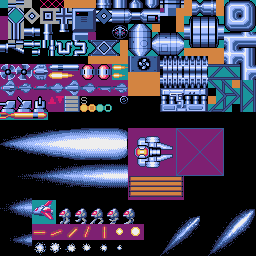
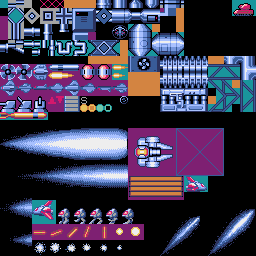
巨大戦艦途中

Changed region(s): [[0.7188, 0.0, 1.0, 0.2188], [0.2188, 0.8125, 0.5312, 0.875], [0.7188, 0.6875, 0.8125, 0.75]]

diff --git a/source/bossBattleShip.py b/source/bossBattleShip.py
@@ -15,7 +15,55 @@ from enemy import CountMover
 from enemyArmored import Walker2
 import story
 
+walker2MoveTable = [
+                [32, CountMover.MOVE, -1.0, 0.0],
+                [60, CountMover.STOP, 0.0, 0.0],
+                [96, CountMover.MOVE, -1.0, 0.0],
+                [60, CountMover.STOP, 0.0, 0.0],
+                [32, CountMover.MOVE, 1.0, 0.0],
+                [60, CountMover.STOP, 0.0, 0.0],
+                [96, CountMover.MOVE, 1.0, 0.0],
+                [1, CountMover.STOP, 0.0, 0.0],
+]
 
+hangeredFighter3Table = [
+    [38, 38],
+    [38, 36],
+    [38, 29],
+    [38, 27],
+    [48, 38],
+    [48, 36],
+    [48, 29],
+    [48, 27],
+    [51, 38],
+    [51, 36],
+    [51, 29],
+    [51, 27],
+    [54, 38],
+    [54, 36],
+    [54, 29],
+    [54, 27],
+]
+
+breakableObjectTable = [
+    [70, 27, 70, 102, 10, 9, 0, 0, 10*8-1, 4*8-1, 100],
+    [70, 31, 70, 122, 10, 9, 0, 5*8, 10*8-1, 9*8-1, 100],
+    [71, 31, 71, 138, 9, 5, 0, 0, 8*8-1, 5*8-1, 1000],
+    [80, 62-35, 80, 150, 10, 4, 0, 0, 10*8-1, 4*8-1, 500],
+    [80, 71-35, 80, 159, 10, 4, 0, 0, 10*8-1, 4*8-1, 500],
+    [80, 62-35, 80, 166, 10, 13, 3*8, 5*8, 6*8-1, 8*8-1, 1000],
+]
+
+# walker2MoveTable = [
+#                 [128, CountMover.MOVE, -1.0, 0.0],
+#                 [60, CountMover.STOP, 0.0, 0.0],
+#                 [96, CountMover.MOVE, 1.0, 0.0],
+#                 [60, CountMover.STOP, 0.0, 0.0],
+#                 [64, CountMover.MOVE, -1.0, 0.0],
+#                 [60, CountMover.STOP, 0.0, 0.0],
+#                 [96, CountMover.MOVE, 1.0, 0.0],
+#                 [1, CountMover.STOP, 0.0, 0.0],
+# ]
 
 class BossBattleShip(enemy.EnemyBase):
     TILE_LEFT = 4
@@ -82,7 +130,7 @@ class BossBattleShip(enemy.EnemyBase):
         self.hitCheck = True
         self.shotHitCheck = True
         self.shotEffect = False
-        self.hp = boss.BOSS_FIRE_HP
+        self.hp = boss.BOSS_BATTLESHIP_HP
         self.score = 15000
         self.bridge = BossBattleShipBridge(self, (63-__class__.TILE_LEFT) *8, (15 -__class__.TILE_TOP)*8)
         self.engine1 = BossBattleShipEngine(self, 0, (26 -15)*8)
@@ -93,9 +141,12 @@ class BossBattleShip(enemy.EnemyBase):
         self.hatch = BossBattleShipHatch(self, (38-__class__.TILE_LEFT) *8, (42 -__class__.TILE_TOP)*8)
         # 隔壁
         self.barrierWall = None
+        # コア
+        self.coreObj = None
         self.storyManager = story.StoryManager(self, storyList)
         self.batteryList = []
         self.missileLauncherList = []
+        self.breakableObjectList = []
         self.appendBattery(12, 22, 0)
         self.appendBattery(18, 21, 0)
         self.appendBattery(23, 21, 0)
@@ -145,39 +196,61 @@ class BossBattleShip(enemy.EnemyBase):
                 self.enemyShotCollision = True
                 self.hatch = None
                 self.storyManager = story.StoryManager(self, storyList3, loopFlag=False, diffTime=True)
+                self.createHangeredFighter3()
                 self.nextState()
         elif self.state == 2:
+            # storyList3
+            #if self.cnt == 0:
             # ハッチから侵入
             self.storyManager.doStory()
+            if self.cnt % 120 == 0:
+                self.createWalker2(1)
+            elif (self.cnt -30) % 200 == 0:
+                self.createWalker2(-1)
+
             if self.barrierWall != None and self.barrierWall.removeFlag:
+                # 壁が破壊される
                 gcommon.debugPrint("storyList4")
                 self.storyManager = story.StoryManager(self, storyList4, loopFlag=False, diffTime=True)
-                ObjMgr.addObj(BossBattleShipCore(self, (89 -__class__.TILE_LEFT)*8, (27 -__class__.TILE_TOP)*8))
+                # 機関室？のオブジェクト生成
+                self.createBreakableObjects()
+                # コア生成
+                self.coreObj = ObjMgr.addObj(BossBattleShipCore(self, (89 -__class__.TILE_LEFT)*8, (27 -__class__.TILE_TOP)*8))
                 self.nextState()
         elif self.state == 3:
+            # storyList4
             self.storyManager.doStory()
+            if self.isBreakableObjectAllBroken():
+                gcommon.debugPrint("state 4")
+                self.nextState()
+            else:
+                # 絶対壊れないように
+                self.coreObj.hp = boss.BOSS_BATTLESHIP_HP
+        elif self.state == 4:
+            pass
 
-            
+    def isBreakableObjectAllBroken(self):
+        if len(self.breakableObjectList) == 0:
+            gcommon.debugPrint("zero!")
 
-        # self.stater.update()
-        # if self.stater.state == 1:
-        #     if self.stater.cnt % 20 == 0:
-        #         p = int((self.stater.cnt-700)/20)
-        #         if p <= 3:
-        #             ObjMgr.addObj(BattleShipMissileLauncher1(self, (33-__class__.TILE_LEFT + p*5)*8, (32- __class__.TILE_TOP)*8, 33 +p*5, 32, 56))
-        # elif self.stater.state == 2:
-        #     if self.stater.cnt % 20 == 0:
-        #         p = int((self.stater.cnt-1050)/20)
-        #         if p <= 3:
-        #             ObjMgr.addObj(BattleShipMissileLauncher1(self, (61-__class__.TILE_LEFT + p*5)*8, (32- __class__.TILE_TOP)*8, 61 +p*5, 32, 56))
-        # elif self.stater.state == 3:
-        #     if self.stater.cnt == 1500:
-        #         ObjMgr.addObj(BossBattleShipLaserCannon(self, (91-__class__.TILE_LEFT)*8, (31-__class__.TILE_TOP)*8))
-        # elif self.stater.state == 4:
-        #     if self.stater.cnt % 20 == 0:
-        #         p = int((self.stater.cnt-1800)/20)
-        #         if p <= 3:
-        #             ObjMgr.addObj(BattleShipMissileLauncher1(self, (102-__class__.TILE_LEFT + p*5)*8, (32- __class__.TILE_TOP)*8, 102 +p*5, 32, 56))
+        for obj in self.breakableObjectList:
+            if obj.removeFlag == False:
+                return False
+        return True
+
+
+    # 機関室？のオブジェクト生成
+    def createBreakableObjects(self):
+        for p in breakableObjectTable:
+            self.breakableObjectList.append(ObjMgr.addObj(BossBattleShipBreakablePart(self, (p[0]- __class__.TILE_LEFT)*8, (p[1]- __class__.TILE_TOP)*8, p[2], p[3], p[4], p[5], p[6], p[7], p[8], p[9], p[10])))
+
+    def createHangeredFighter3(self):
+        for pos in hangeredFighter3Table:
+            ObjMgr.addObj(BossBattleShipHangeredFighter3(self, (pos[0] -__class__.TILE_LEFT)*8, (pos[1] -__class__.TILE_TOP)*8))
+
+    def createWalker2(self, position):
+        y = (38-BossBattleShip.TILE_TOP)*8 if position == 1 else (27-BossBattleShip.TILE_TOP)*8
+        ObjMgr.addObj(Walker2(self, (64 -BossBattleShip.TILE_LEFT)*8, y, walker2MoveTable, position))            
 
     def missileLauncher(self, params):
         baseMx = params[2]
@@ -238,6 +311,10 @@ class BossBattleShip(enemy.EnemyBase):
         obj = ObjMgr.myShip
         #return self.getTileHit(obj.x + (obj.right -obj.left+1)/2, obj.y + (obj.bottom -obj.top+1)/2)
         return self.getTileHit(obj.x + 9, obj.y + 7)
+
+    # 敵弾との当たり判定
+    def checkEnemyShotCollision(self, shot):
+        return self.getTileHit(shot.x + (shot.right -shot.left+1)/2, shot.y + (shot.bottom -shot.top+1)/2)
 
     # 当たった場合の破壊処理
     # 破壊した場合True
@@ -326,8 +403,8 @@ storyList3 = [
 ]
 
 storyList4 = [
-    [0, BossBattleShip.setScroll, 1.0, 0.0],
-    [480, BossBattleShip.setScroll, 0.5, 0.0],
+    [0, BossBattleShip.setScroll, 0.75, 0.0],
+    [960, BossBattleShip.setScroll, 0.5, 0.0],
 ]
 
 # エンジン
@@ -842,18 +919,7 @@ class BossBattleShipHatch(enemy.EnemyBase):
                 pyxel.tilemap(1).copy(37, 26, 1, 37, 61, 97-37+1, 76-61+1)
                 # 隔壁生成
                 self.parent.barrierWall = ObjMgr.addObj(BossBattleShipBarrierWall(self.parent, (66 -BossBattleShip.TILE_LEFT)*8, (31-BossBattleShip.TILE_TOP)*8))
-                ObjMgr.addObj(Walker2(self.parent, (64 -BossBattleShip.TILE_LEFT)*8, (38-BossBattleShip.TILE_TOP)*8,   \
-                    [
-                        [128, CountMover.MOVE, -1.0, 0.0],
-                        [60, CountMover.STOP, 0.0, 0.0],
-                        [64, CountMover.MOVE, 1.0, 0.0],
-                        [60, CountMover.STOP, 0.0, 0.0],
-                        [64, CountMover.MOVE, -1.0, 0.0],
-                        [60, CountMover.STOP, 0.0, 0.0],
-                        [128, CountMover.MOVE, 1.0, 0.0],
-                        [1, CountMover.STOP, 0.0, 0.0],
-                    ]
-                ))
+
                 self.remove()
 
     def draw(self):
@@ -893,6 +959,68 @@ class BossBattleShipBarrierWall(enemy.EnemyBase):
 
     def draw(self):
         pyxel.bltm(gcommon.sint(self.x), gcommon.sint(self.y), 1, 40, 88, 3, 5, 2)
+
+# ハンガーに吊るされた戦闘機
+class BossBattleShipHangeredFighter3(enemy.EnemyBase):
+    def __init__(self, parent, ox, oy):
+        super(__class__, self).__init__()
+        self.parent = parent
+        self.x = self.parent.x + ox
+        self.y = self.parent.y + oy
+        self.offsetX = ox
+        self.offsetY = oy
+        self.left = 2
+        self.top = 5
+        self.right = 22
+        self.bottom = 15
+        self.hitcolor1 = 12
+        self.hitcolor2 = 7
+        self.layer = gcommon.C_LAYER_SKY
+        self.hp = 10
+        self.ground = False
+        self.hitCheck = True
+        self.shotHitCheck = True
+
+    def update(self):
+        self.x = self.parent.x + self.offsetX
+        self.y = self.parent.y + self.offsetY
+
+    def draw(self):
+        pyxel.blt(gcommon.sint(self.x), gcommon.sint(self.y), 1, 184, 176, 24, 16, 3)
+
+# 破壊可能オブジェクト
+class BossBattleShipBreakablePart(enemy.EnemyBase):
+    def __init__(self, parent, ox, oy, mx, my, mwidth, mheight, left, top, right, bottom, hp):
+        super(__class__, self).__init__()
+        self.parent = parent
+        self.x = self.parent.x + ox
+        self.y = self.parent.y + oy
+        self.offsetX = ox
+        self.offsetY = oy
+        self.mx = mx
+        self.my = my
+        self.mwidth = mwidth
+        self.mheight = mheight
+        self.left = left
+        self.top = top
+        self.right = right
+        self.bottom = bottom
+        self.hp = hp
+        self.hitcolor1 = 12
+        self.hitcolor2 = 7
+        self.layer = gcommon.C_LAYER_SKY
+        self.exptype = gcommon.C_EXPTYPE_SKY_M
+        self.ground = False
+        self.hitCheck = True
+        self.shotHitCheck = True
+
+    def update(self):
+        self.x = self.parent.x + self.offsetX
+        self.y = self.parent.y + self.offsetY
+
+    def draw(self):
+        pyxel.bltm(gcommon.sint(self.x), gcommon.sint(self.y), 1, self.mx, self.my, self.mwidth, self.mheight, 2)
+
 
 
 # コア

diff --git a/source/enemyArmored.py b/source/enemyArmored.py
@@ -53,19 +53,25 @@ class Armored1(EnemyBase):
 
 
 class Walker2(EnemyBase):
-	def __init__(self, parent, x, y, moveTable):
+	# position : 1:下  -1：上
+	def __init__(self, parent, x, y, moveTable, position):
 		super(__class__, self).__init__()
 		self.parent = parent
 		self.x = x
 		self.y = y
 		self.mover = enemy.CountMover(self, moveTable, loopFlag=False, selfMove=False)
-		self.left = 5
-		self.top = 3
+		self.position = position
+		self.left = 4
 		self.right = 12
-		self.bottom = 15
+		if self.position == 1:
+			self.top = 3
+			self.bottom = 15
+		else:
+			self.top = 0
+			self.bottom = 12
 		self.layer = gcommon.C_LAYER_SKY
 		self.exptype = gcommon.C_EXPTYPE_SKY_S
-		self.hp = 20
+		self.hp = 50
 		self.hitcolor1 = 5
 		self.hitcolor2 = 12
 		self.hitCheck = True
@@ -82,7 +88,10 @@ class Walker2(EnemyBase):
 		if self.mover.mode == CountMover.STOP:
 			if self.mover.cnt == 20:
 				enemy_shot(self.x + (self.right -self.left)/2, self.y + (self.bottom -self.top)/2, 2, 0)
-		self.fdx = 1 if self.mover.dx < 0 else -1
+		if self.mover.dx < 0.0:
+			self.fdx = 1
+		elif self.mover.dx > 0.0:
+			self.fdx = -1
 		self.x = self.parent.x + self.mover.x
 		self.y = self.parent.y + self.mover.y
 		#gcommon.debugPrint(str(self.x) + " " + str(self.y))
@@ -91,5 +100,5 @@ class Walker2(EnemyBase):
 		n = 0
 		if abs(self.mover.dx) > 0.1:
 			n = 1 + (self.cnt>>2) & 3
-		pyxel.blt(self.x, self.y, 1, 56 + n * 16, 208, 16 * self.fdx, 16, 0)
+		pyxel.blt(self.x, self.y, 1, 56 + n * 16, 208, 16 * self.fdx, 16 * self.position, 0)
 

diff --git a/source/enemy.py b/source/enemy.py
@@ -136,6 +136,10 @@ class EnemyBase:
 		else:
 			return gcommon.check_collision(self, ObjMgr.myShip)
 
+	# 敵と敵弾との当たり判定
+	def checkEnemyShotCollision(self, shot):
+		return gcommon.check_collision(self, shot)
+
 	def drawLayer(self, layer):
 		self.draw()
 
@@ -3873,13 +3877,9 @@ class ContinuousShot(EnemyBase):
 
 # 画面の敵弾を消去する
 def removeEnemyShot():
-	newObjs = []
 	for obj in ObjMgr.objs:
 		if obj.removeFlag == False and obj.layer == gcommon.C_LAYER_E_SHOT:
 			obj.remove()
-		else:
-			newObjs.append(obj)
-	ObjMgr.objs = newObjs
 
 class BattleShip1(EnemyBase):
 	def __init__(self, t):

diff --git a/source/graslay.py b/source/graslay.py
@@ -670,13 +670,13 @@ class MainGame:
 				continue
 			if wallObj.enemyShotCollision == False:
 				continue
-			for obj in ObjMgr.objs:
-				if obj.removeFlag:
+			for shot in ObjMgr.objs:
+				if shot.removeFlag:
 					continue
-				if obj.layer != gcommon.C_LAYER_E_SHOT:
+				if shot.layer != gcommon.C_LAYER_E_SHOT:
 					continue
-				if gcommon.check_collision(wallObj, obj):
-					obj.removeFlag = True
+				if wallObj.checkEnemyShotCollision(shot):
+					shot.removeFlag = True
 					break
 
 		# my ship & enemy

diff --git a/source/boss.py b/source/boss.py
@@ -21,6 +21,7 @@ BOSS_LAST_CORE_HP = 1200
 BOSS_WAREHOUSE_HP = 9000
 BOSS_CAVE_HP = 7000
 BOSS_FIRE_HP = 4000
+BOSS_BATTLESHIP_HP = 6000
 
 # def remove_all_battery():
 # 	for obj in ObjMgr.objs:
